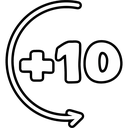
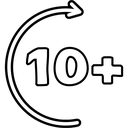
type

Changed region(s): [[0.0312, 0.0, 0.9688, 1.0]]

diff --git a/livestream-chat-widget.html b/livestream-chat-widget.html
@@ -240,7 +240,7 @@
   }
   @keyframes centerSkipForward {
     from { transform: translate(-50%, -50%) rotate(0deg); }
-    to { transform: translate(-50%, -50%) rotate(-360deg); }
+    to { transform: translate(-50%, -50%) rotate(360deg); }
   }
   @media (prefers-reduced-motion: reduce) {
     .center-skip-btn.is-skipping { animation: none; }
@@ -2831,7 +2831,7 @@
         <video id="videoEl" playsinline webkit-playsinline muted referrerpolicy="origin" disablePictureInPicture disableRemotePlayback controlsList="nodownload noplaybackrate noremoteplayback" style="display:none;"></video>
         <div class="center-toggle-icon" id="centerToggleIcon" aria-hidden="true"></div>
         <button type="button" class="center-skip-btn center-skip-back" id="skipBackBtn" title="Back 10 seconds" aria-label="Back 10 seconds" disabled><img src="/skip-back-10.png?v=2" alt=""></button>
-        <button type="button" class="center-skip-btn center-skip-forward" id="skipForwardBtn" title="Forward 10 seconds" aria-label="Forward 10 seconds" disabled><img src="/skip-forward-10.png?v=2" alt=""></button>
+        <button type="button" class="center-skip-btn center-skip-forward" id="skipForwardBtn" title="Forward 10 seconds" aria-label="Forward 10 seconds" disabled><img src="/skip-forward-10.png?v=3" alt=""></button>
       </div>
       <div class="video-loading" id="videoLoading">
 

diff --git a/live.html b/live.html
@@ -259,7 +259,7 @@
   </a>
 
   <div class="player-wrap">
-    <iframe src="/livestream-chat-widget.html?v=skip-10-7"
+    <iframe src="/livestream-chat-widget.html?v=skip-10-8"
             title="KNOBSOCK Live"
             allow="accelerometer; autoplay; clipboard-write; encrypted-media; gyroscope; picture-in-picture; fullscreen"
             allowfullscreen></iframe>
